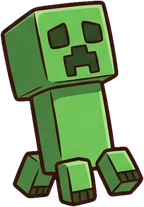
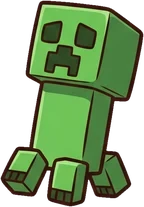
Slower battle pacing, zoomed-out portraits, creeper faces left

diff --git a/js/ui/hub.js b/js/ui/hub.js
@@ -12,7 +12,7 @@ import { drawMount } from '../art/mounts.js';
 import { drawMob } from '../art/mobs.js';
 import { INK, rr, circle, ellipse, poly, line, block, text, shade, shadow } from '../art/core.js';
 import { tree } from '../art/backgrounds.js';
-import { drawAnim, sheetReady, preloadSheets, spriteHeight, bgImage } from '../art/sheets.js';
+import { drawAnim, drawHeadshot, sheetReady, preloadSheets, spriteHeight, bgImage } from '../art/sheets.js';
 import { modal, infoModal, confirmModal, iconCanvas, gearIcon, rewardChips, canvasBox } from './common.js';
 import { sfx, playMusic, applyAudioSettings } from '../audio.js';
 import { playPinball } from './pinball.js';
@@ -28,7 +28,7 @@ export function showHub(opts = {}) {
   playMusic('hub');
   const root = document.getElementById('screen'); root.innerHTML = '';
   const st = heroStats(); const belt = beltInfo();
-  const avatar = el('div', { class: 'avatar' }, canvasBox(44, 44, (ctx, w, h) => { if (!drawAnim(ctx, 'chars/arlo', 'idle', w / 2 + 1, h * 1.95, h * 2.05, { frame: 0, noShadow: true, belt: false })) drawPerson(ctx, w / 2 - 2, h + 22, 0.62, arloLook(S, belt.color), { t: 0, noShadow: true }); }, true));
+  const avatar = el('div', { class: 'avatar' }, canvasBox(44, 44, (ctx, w, h) => { if (!drawHeadshot(ctx, 'chars/arlo', w, h, { belt: false })) drawPerson(ctx, w / 2 - 2, h + 22, 0.62, arloLook(S, belt.color), { t: 0, noShadow: true }); }, true));
   const top = el('div', { class: 'topbar' },
     el('div', { class: 'who' }, avatar, el('div', {}, el('div', { class: 'nm' }, S.name), el('div', { class: 'belt' }, el('span', { class: 'belt-swatch', style: { background: belt.color } }), belt.name), el('div', { class: 'power' }, '⚡', fmt(st.power)))),
     el('div', { class: 'cur' }, icon('coin', 20, '🪙'), ' ', fmt(S.coins)), el('div', { class: 'cur' }, icon('gem', 20, '💎'), ' ', fmt(S.gems)));

diff --git a/js/battle.js b/js/battle.js
@@ -1,13 +1,15 @@
 import { chance, rand } from './util.js';
 import { PETS, petLevelMult } from './data/pets.js';
 import { sfx } from './audio.js';
+import { BAL } from './data/balance.js';
 
 // Turn-based auto battle, animated on the Scene.
 // ctx = { scene, run, hero, emery, petActors, onUpdate }
 export async function fight(ctx, enemies, { boss = false, elite = false } = {}) {
   const { scene, run } = ctx;
   const S = run.stats; // live derived stats (recalculated by run)
-  const wait = ms => new Promise(r => setTimeout(r, ms / scene.speed));
+  // battlePace > 1 slows every beat of the fight so a kid can follow each exchange
+  const wait = ms => new Promise(r => setTimeout(r, ms * BAL.battlePace / scene.speed));
   const hero = ctx.hero;
   const maxRounds = (boss || elite) ? 15 : 25;
   let round = 0;
@@ -294,7 +296,8 @@ export async function fight(ctx, enemies, { boss = false, elite = false } = {}) 
     if (alive().length) await tickDots();
     if (!alive().length) break;
     // --- enemy phase ---
-    for (const e of alive()) { await enemyAct(e); if (run.hp <= 0 && await checkDeath()) break; }
+    await wait(260);   // short beat when the turn switches sides
+    for (const e of alive()) { await enemyAct(e); await wait(120); if (run.hp <= 0 && await checkDeath()) break; }
     if (run.hp <= 0) break;
     // --- end of round ---
     const M = run.mods;

diff --git a/js/ui/tutorial.js b/js/ui/tutorial.js
@@ -4,7 +4,7 @@
 import { el, sleep } from '../util.js';
 import { sfx } from '../audio.js';
 import { canvasBox } from './common.js';
-import { drawAnim } from '../art/sheets.js';
+import { drawHeadshot } from '../art/sheets.js';
 
 const overlayEl = () => document.getElementById('overlay');
 const hasModal = () => !!overlayEl().querySelector('.modal-bg, .pinball, .cutscene');
@@ -26,7 +26,7 @@ export async function runTour(steps, { from = 0, onStep } = {}) {
   const textEl = el('div', { class: 'tut-text' });
   const nextBtn = el('button', { class: 'btn gold small tut-next' }, 'Next ▶');
   const tapHint = el('div', { class: 'tut-taphint' }, 'Tap the glowing spot!');
-  const face = canvasBox(64, 64, (ctx, w, h, t) => drawAnim(ctx, 'chars/nana', 'idle', w / 2, h * 1.9, h * 2.0, { t, noShadow: true }), true);
+  const face = canvasBox(64, 64, (ctx, w, h, t) => drawHeadshot(ctx, 'chars/nana', w, h), true);
   const coach = el('div', { class: 'tut-coach' }, el('div', { class: 'tut-face' }, face), el('div', { class: 'tut-body' }, el('div', { class: 'tut-name' }, 'Nana'), textEl, el('div', { class: 'tut-actions' }, tapHint, nextBtn)));
   layer.append(hole, hand, coach);
   document.getElementById('app').append(layer);

diff --git a/js/art/sheets.js b/js/art/sheets.js
@@ -106,6 +106,13 @@ export function drawAnim(ctx, key, anim, x, y, h, opts = {}) {
   return true;
 }
 
+// Head-and-shoulders picture for round avatars / speech boxes: the top ~63% of the sprite,
+// with a little space above the hair so faces aren't cropped too tight.
+export function drawHeadshot(ctx, key, w, h, opts = {}) {
+  const H = h * 1.5;
+  return drawAnim(ctx, key, opts.anim || 'idle', w / 2, h * 0.07 + H, H, { frame: 0, noShadow: true, ...opts });
+}
+
 // static portrait (for menus): first frame of an anim drawn to fit a box
 export function drawPortrait(ctx, key, anim, x, y, h, t = 0) { return drawAnim(ctx, key, anim, x, y, h, { t, noShadow: true }); }
 

diff --git a/js/data/balance.js b/js/data/balance.js
@@ -9,7 +9,8 @@
 export const BAL = {
   // how much tougher each chapter's monsters are (chapter 1 = 1)
   chapterMult: [1, 1.7, 2.8, 4.4, 6.4, 11.0, 16.5, 21.0, 24.5, 28],
-  enemyHp: 1.75, enemyAtk: 1.85,                  // global monster toughness
+  enemyHp: 1.75, enemyAtk: 1.85,
+  battlePace: 1.6,                               // >1 = slower, easier-to-follow fights (x1 speed)                  // global monster toughness
   // coins/XP scale with chapter at a slightly slower rate than monsters, so later chapters need a few more tries
   coinPow: 0.85,
   battleCoins: (day) => 6 + day * 0.4,          // base coins per battle (x chapter coin multiplier)

diff --git a/sw.js b/sw.js
@@ -1,6 +1,6 @@
 // Network-first service worker: always gets the newest version when online,
 // and still works offline from the cache. Bump VERSION when releasing an update.
-const VERSION = 'aaa-v4';
+const VERSION = 'aaa-v5';
 self.addEventListener('install', e => { self.skipWaiting(); });
 self.addEventListener('activate', e => { e.waitUntil(caches.keys().then(ks => Promise.all(ks.filter(k => k !== VERSION).map(k => caches.delete(k)))).then(() => self.clients.claim())); });
 self.addEventListener('fetch', e => {
